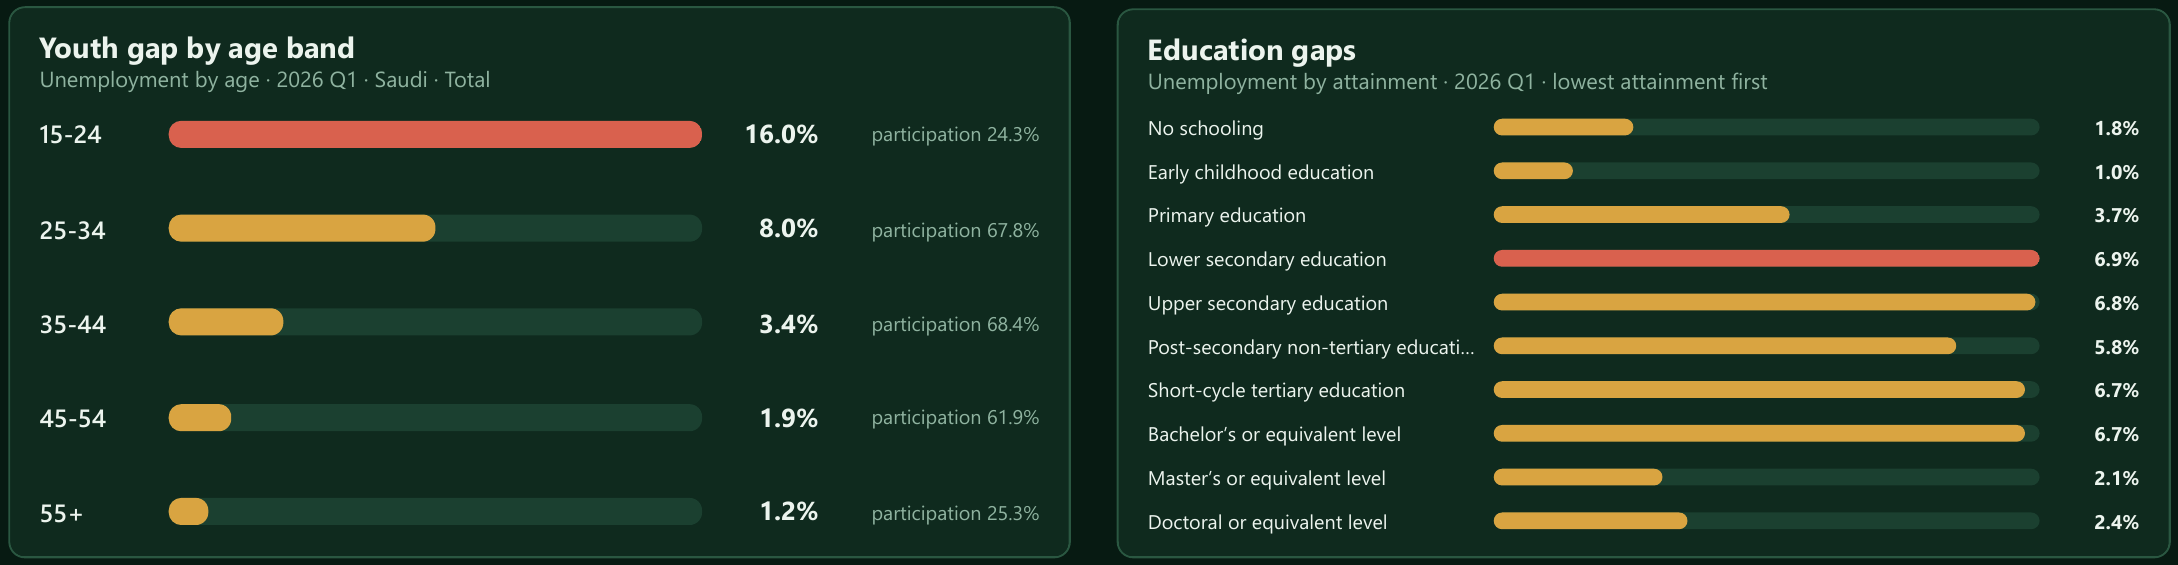
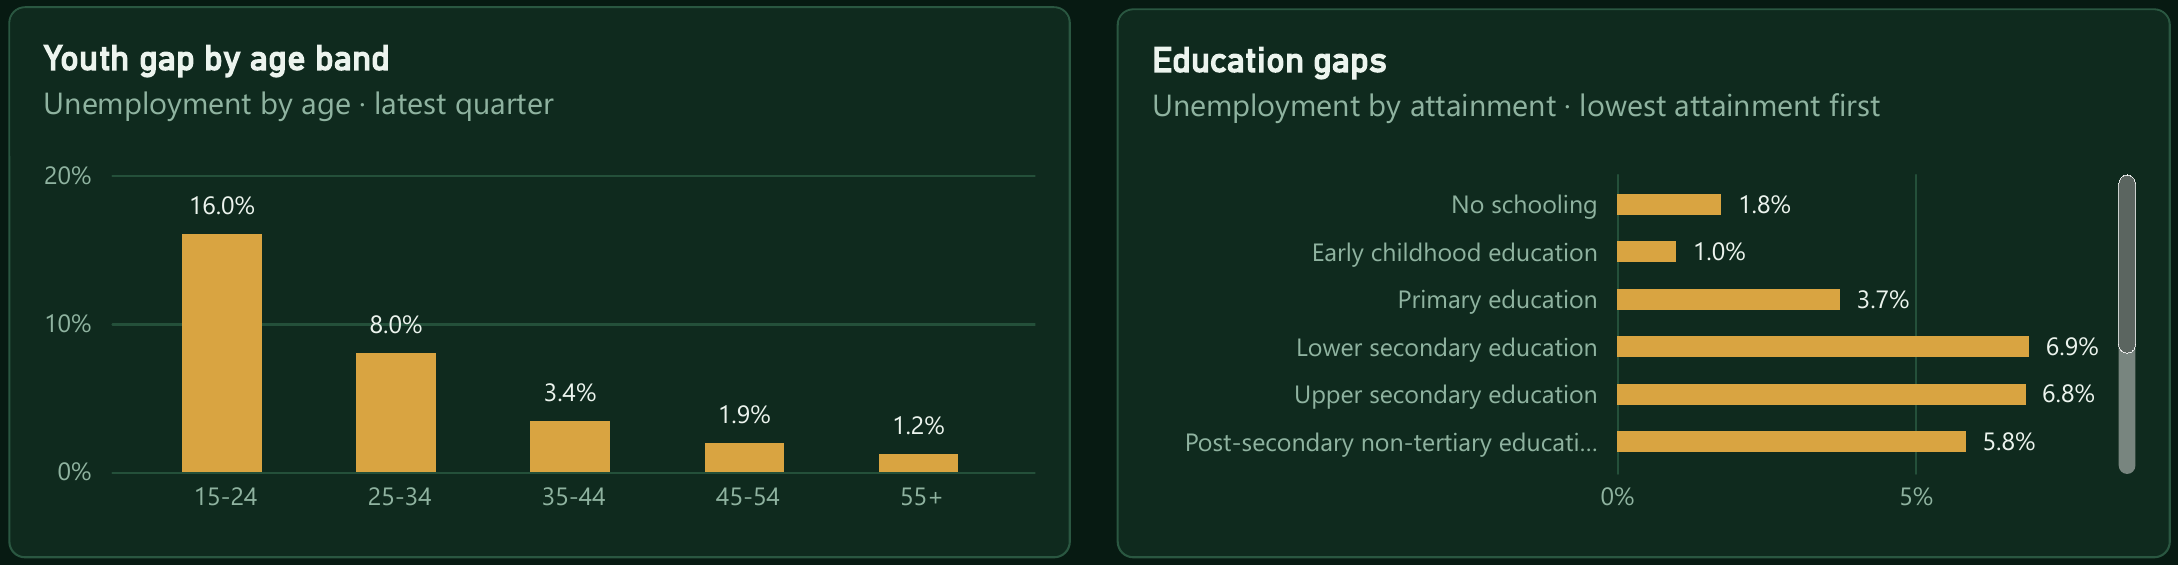
Use native SLM visuals and document HTML Content

diff --git a/projects/saudi-labor-market.html b/projects/saudi-labor-market.html
@@ -34,13 +34,13 @@
           </div>
           <ul class="project-facts">
             <li><span>Platform</span><strong>Power BI · DAX · Power Query</strong></li>
+            <li><span>Visuals</span><strong>Native charts · HTML Content</strong></li>
             <li><span>Data</span><strong>Public GASTAT Labour Force Survey</strong></li>
-            <li><span>Coverage</span><strong>2021 Q1 to 2026 Q1</strong></li>
           </ul>
         </div>
         <figure class="hero-shot">
-          <div class="hero-shot-media"><img src="../assets/images/saudi-labor-market-full.png" alt="Saudi Labor Market dashboard with national KPIs, a quarterly trend, regional gaps, age bands, and education levels" width="2667" height="1500"></div>
-          <figcaption class="hero-shot-copy"><span>Dashboard overview</span><h2>One page from headline rate to population gaps</h2><p>The view moves from national KPIs and a 21-quarter trend to comparisons by region, age, and education. Nationality and sex filters apply consistently across every panel.</p></figcaption>
+          <div class="hero-shot-media"><img src="../assets/images/saudi-labor-market-full.png" alt="Saudi Labor Market dashboard with HTML Content KPI cards and native Power BI trend, regional, age, and education charts" width="2667" height="1500"></div>
+          <figcaption class="hero-shot-copy"><span>Dashboard overview</span><h2>One page from headline rate to population gaps</h2><p>Native Power BI charts move from a 21-quarter national trend to comparisons by region, age, and education. HTML Content is used for the KPI cards and branded sidebar.</p></figcaption>
         </figure>
       </div>
     </section>
@@ -61,12 +61,12 @@
         <p class="case-label">Approach</p>
         <div class="case-copy">
           <h2>A consistent model across four analytical views</h2>
-          <p>I prepared the published GASTAT tables in Power Query and modeled the data at quarter, breakdown, category, nationality, and sex level. DAX measures control the latest-quarter values, prior-quarter comparison, and responsive national, regional, age, and education views.</p>
+          <p>I prepared the published GASTAT tables in Power Query and modeled the data at quarter, breakdown, category, nationality, and sex level. DAX measures control the latest-quarter values, prior-quarter comparison, and responsive national, regional, age, and education views. I used the HTML Content custom visual by Daniel Marsh-Patrick for the KPI cards and branded sidebar, while the four analytical panels use native Power BI visuals.</p>
           <ul>
-            <li>Executive KPIs show unemployment, quarterly movement, participation, employment, and youth unemployment.</li>
-            <li>The national series gives 21 quarters of context instead of treating the latest value in isolation.</li>
-            <li>Regional values are displayed against the national benchmark.</li>
-            <li>Age and education panels expose demographic differences while retaining the same selected nationality and sex.</li>
+            <li>HTML Content KPI cards show unemployment, quarterly movement, participation, employment, and youth unemployment.</li>
+            <li>A native line chart gives 21 quarters of context instead of treating the latest value in isolation.</li>
+            <li>A native regional bar chart ranks the latest results and supports chart interactions.</li>
+            <li>Native age and education charts expose demographic differences while retaining the selected nationality and sex.</li>
           </ul>
           <div class="insight-grid">
             <div class="insight"><strong>6.4%</strong><span>Saudi unemployment rate in 2026 Q1</span></div>
@@ -84,18 +84,18 @@
           <h2>Public source with transparent scope</h2>
           <p class="disclosure"><strong>Source:</strong> General Authority for Statistics, Saudi Arabia, Labour Market Statistics Q1 2026. The national series covers 2021 Q1 through 2026 Q1; detailed region, age, and education views show the latest quarter.</p>
           <p>The dashboard reports published survey rates. Because the public tables do not include microdata, weights, or confidence intervals, the detailed comparisons are presented descriptively rather than as tests of statistical significance.</p>
-          <p><a class="text-link" href="https://www.stats.gov.sa/en/w/labor-market-statistics-q1-2026-1" target="_blank" rel="noreferrer">View the official publication <span aria-hidden="true">→</span></a></p>
+          <p><a class="text-link" href="https://www.stats.gov.sa/en/search?category=all&amp;delta=20&amp;q=Labor+Market&amp;sort=" target="_blank" rel="noreferrer">Find the Q1 2026 source files on GASTAT <span aria-hidden="true">→</span></a></p>
         </div>
       </div>
     </section>
 
     <section class="gallery-section">
       <div class="container">
-        <div class="gallery-heading"><p class="eyebrow">Dashboard details</p><h2>From national direction to demographic gaps</h2><p>Focused views show how each part of the dashboard supports a different decision. Select any image to inspect it at full size.</p></div>
+        <div class="gallery-heading"><p class="eyebrow">Native dashboard views</p><h2>From national direction to demographic gaps</h2><p>Native Power BI charts support cross-filtering, tooltips, drill, and export. Select any image to inspect it at full size.</p></div>
         <div class="gallery-grid">
-          <figure class="gallery-item gallery-item-wide"><button class="image-button" type="button" data-expand-image data-caption="National unemployment trend from 2021 Q1 to 2026 Q1"><img src="../assets/images/saudi-labor-market-trend.png" alt="National unemployment trend declining to 6.4 percent in 2026 Q1" width="1078" height="565" loading="lazy"></button><figcaption><strong>National trend</strong><p>Twenty-one quarters put the latest result in context.</p></figcaption></figure>
-          <figure class="gallery-item"><button class="image-button" type="button" data-expand-image data-caption="Regional unemployment gaps relative to the national rate"><img src="../assets/images/saudi-labor-market-regional-gaps.png" alt="Regional unemployment rates ranging from 3.9 percent in Riyadh to 9.9 percent in Northern Border" width="1070" height="565" loading="lazy"></button><figcaption><strong>Regional gaps</strong><p>A common benchmark makes geographic differences immediately visible.</p></figcaption></figure>
-          <figure class="gallery-item"><button class="image-button" type="button" data-expand-image data-caption="Unemployment by age band and education level"><img src="../assets/images/saudi-labor-market-demographics.png" alt="Youth and education unemployment comparisons for Saudi nationals in 2026 Q1" width="2178" height="565" loading="lazy"></button><figcaption><strong>Demographic analysis</strong><p>Age and attainment views reveal where headline outcomes diverge.</p></figcaption></figure>
+          <figure class="gallery-item gallery-item-wide"><button class="image-button" type="button" data-expand-image data-caption="Native Power BI national unemployment trend from 2021 Q1 to 2026 Q1"><img src="../assets/images/saudi-labor-market-trend.png" alt="Native Power BI line chart showing the national unemployment trend declining to 6.4 percent in 2026 Q1" width="1078" height="565" loading="lazy"></button><figcaption><strong>National trend</strong><p>Twenty-one quarters put the latest result in context.</p></figcaption></figure>
+          <figure class="gallery-item"><button class="image-button" type="button" data-expand-image data-caption="Native Power BI regional unemployment ranking"><img src="../assets/images/saudi-labor-market-regional-gaps.png" alt="Native Power BI bar chart ranking regional unemployment rates" width="1070" height="565" loading="lazy"></button><figcaption><strong>Regional gaps</strong><p>The ranked view makes geographic differences immediately visible.</p></figcaption></figure>
+          <figure class="gallery-item"><button class="image-button" type="button" data-expand-image data-caption="Native Power BI age and education unemployment charts"><img src="../assets/images/saudi-labor-market-demographics.png" alt="Native Power BI column and bar charts comparing unemployment by age and education in 2026 Q1" width="2178" height="565" loading="lazy"></button><figcaption><strong>Demographic analysis</strong><p>Age and attainment views reveal where headline outcomes diverge.</p></figcaption></figure>
         </div>
       </div>
     </section>

diff --git a/projects/revenue-leak-detector.html b/projects/revenue-leak-detector.html
@@ -15,11 +15,11 @@
   <a class="skip-link" href="#main">Skip to content</a>
   <header class="site-header"><div class="container nav-wrap"><a class="brand" href="../index.html" aria-label="Mohanned Al Alshaikh home"><span class="brand-mark" aria-hidden="true">MA</span><span>Mohanned Al Alshaikh</span></a><button class="nav-toggle" type="button" aria-expanded="false" aria-controls="site-nav" data-nav-toggle>Menu</button><nav class="site-nav" id="site-nav" aria-label="Primary navigation" data-nav><a href="../index.html#work">Projects</a><a href="../index.html#about">About</a><a href="../index.html#experience">Experience</a><a href="../index.html#contact">Contact</a><a class="nav-resume" href="../assets/resume/mohanned-alshaikh-cv.pdf" target="_blank" rel="noreferrer">Résumé</a></nav></div></header>
   <main id="main">
-    <section class="project-hero"><div class="container"><div class="project-hero-grid"><div><p class="eyebrow">Commercial analytics</p><h1>Revenue Leak Detector</h1><p class="project-summary">A single-page merchant risk monitor that turns lifecycle and performance signals into an executive summary, root-cause view, and prioritized watchlist.</p></div><ul class="project-facts"><li><span>Platform</span><strong>Power BI · DAX · Power Query</strong></li><li><span>Interface</span><strong>Native and custom HTML visuals</strong></li><li><span>Data</span><strong>Synthetic demonstration dataset</strong></li></ul></div><figure class="hero-shot"><div class="hero-shot-media"><img src="../assets/images/revenue-leak-detector-full.png" alt="Revenue Leak Detector dashboard with commercial exposure KPIs, risk breakdowns, and a merchant watchlist" width="2667" height="1500"></div><figcaption class="hero-shot-copy"><span>Dashboard overview</span><h2>Risk signals arranged for prioritization</h2><p>Executive cards establish the scale of exposure, breakdowns explain where it concentrates, and the merchant watchlist identifies the accounts to review first.</p></figcaption></figure></div></section>
+    <section class="project-hero"><div class="container"><div class="project-hero-grid"><div><p class="eyebrow">Commercial analytics</p><h1>Revenue Leak Detector</h1><p class="project-summary">A single-page merchant risk monitor that turns lifecycle and performance signals into an executive summary, root-cause view, and prioritized watchlist.</p></div><ul class="project-facts"><li><span>Platform</span><strong>Power BI · DAX · Power Query</strong></li><li><span>Visuals</span><strong>Native charts · HTML Content</strong></li><li><span>Data</span><strong>Synthetic demonstration dataset</strong></li></ul></div><figure class="hero-shot"><div class="hero-shot-media"><img src="../assets/images/revenue-leak-detector-full.png" alt="Revenue Leak Detector dashboard with commercial exposure KPIs, risk breakdowns, and a merchant watchlist" width="2667" height="1500"></div><figcaption class="hero-shot-copy"><span>Dashboard overview</span><h2>Risk signals arranged for prioritization</h2><p>Executive cards establish the scale of exposure, native charts explain where it concentrates, and an HTML Content watchlist identifies the accounts to review first.</p></figcaption></figure></div></section>
 
     <section class="case-section"><div class="container case-grid"><p class="case-label">Business question</p><div class="case-copy"><h2>Which merchants require attention, and what signal put them at risk?</h2><p>Revenue leakage can emerge at different points in the merchant lifecycle: stalled opportunities, activation delays, onboarding friction, declining GMV, or missed expansion. When those signals live in separate fields, commercial teams struggle to compare exposure and decide where to act first.</p><p>The dashboard centralizes the signals into one monitoring view, moving from portfolio-level indicators to the specific merchants driving the result.</p></div></div></section>
 
-    <section class="case-section"><div class="container case-grid"><p class="case-label">Approach</p><div class="case-copy"><h2>From detection rules to an action-oriented watchlist</h2><p>I defined rule-based flags for each leakage category, prepared the merchant table in Power Query, and used DAX to aggregate the selected population. Country, industry, and account-owner slicers support targeted investigation without leaving the page.</p><ul><li>Executive cards summarize estimated commercial exposure, leak rate, merchant population, active merchants, and deal value.</li><li>A leak-type breakdown explains which operational signal contributes most to the combined exposure measure.</li><li>The merchant watchlist pairs every high-priority account with its amount, category, and plain-language reason.</li><li>A reset control restores the intended default filter state after exploration.</li></ul><div class="insight-grid"><div class="insight"><strong>117</strong><span>merchant records flagged for leakage</span></div><div class="insight"><strong>27.9%</strong><span>illustrative leak rate</span></div><div class="insight"><strong>SAR 17.9M</strong><span>combined illustrative exposure</span></div></div></div></div></section>
+    <section class="case-section"><div class="container case-grid"><p class="case-label">Approach</p><div class="case-copy"><h2>From detection rules to an action-oriented watchlist</h2><p>I defined rule-based flags for each leakage category, prepared the merchant table in Power Query, and used DAX to aggregate the selected population. Country, industry, and account-owner slicers support targeted investigation without leaving the page. I used the HTML Content custom visual by Daniel Marsh-Patrick for the KPI cards, branded sidebar, and merchant watchlist; the analytical breakdowns use native Power BI charts.</p><ul><li>Executive cards summarize estimated commercial exposure, leak rate, merchant population, active merchants, and deal value.</li><li>A leak-type breakdown explains which operational signal contributes most to the combined exposure measure.</li><li>The merchant watchlist pairs every high-priority account with its amount, category, and plain-language reason.</li><li>A reset control restores the intended default filter state after exploration.</li></ul><div class="insight-grid"><div class="insight"><strong>117</strong><span>merchant records flagged for leakage</span></div><div class="insight"><strong>27.9%</strong><span>illustrative leak rate</span></div><div class="insight"><strong>SAR 17.9M</strong><span>combined illustrative exposure</span></div></div></div></div></section>
 
     <section class="case-section"><div class="container case-grid"><p class="case-label">Metric design</p><div class="case-copy"><h2>A prioritization measure, not an accounting forecast</h2><p class="disclosure"><strong>Portfolio-data disclosure:</strong> This project uses synthetic merchant data created for demonstration. Names, values, performance patterns, and results do not represent a real company.</p><p>The dashboard’s combined exposure measure uses different scenario inputs: deal value for pipeline delays, annualized recent GMV decline for active merchants, and estimated expansion value for missed opportunities. It is best interpreted as an <strong>estimated commercial exposure used for prioritization</strong>, not as recognized revenue or a financial forecast.</p><p>This distinction is documented so decision-makers can use the ranking without overstating the precision of the total.</p></div></div></section>
 

diff --git a/index.html b/index.html
@@ -54,7 +54,7 @@
         </div>
         <div class="hero-visual" aria-label="Selected dashboard previews">
           <figure class="preview preview-primary">
-            <img src="assets/images/saudi-labor-market-full.png" alt="Saudi Labor Market dashboard showing national, regional, age, and education outcomes" width="2667" height="1500">
+            <img src="assets/images/saudi-labor-market-full.png" alt="Saudi Labor Market dashboard using native Power BI charts for national, regional, age, and education outcomes" width="2667" height="1500">
           </figure>
         </div>
       </div>
@@ -73,10 +73,10 @@
         <div class="project-grid">
           <article class="project-card project-card-featured">
             <a class="project-image" href="projects/saudi-labor-market.html">
-              <img src="assets/images/saudi-labor-market-full.png" alt="Saudi Labor Market Quarterly Outcomes Monitor dashboard" width="2667" height="1500" loading="lazy">
+              <img src="assets/images/saudi-labor-market-full.png" alt="Saudi Labor Market Quarterly Outcomes Monitor with native analytical charts" width="2667" height="1500" loading="lazy">
             </a>
             <div class="project-card-body">
-              <div class="project-meta"><span>Power BI</span><span>Public data</span><span>Labour analytics</span></div>
+              <div class="project-meta"><span>Power BI</span><span>Public data</span><span>Native charts</span><span>HTML Content</span></div>
               <h3><a href="projects/saudi-labor-market.html">Saudi Labor Market Quarterly Outcomes Monitor</a></h3>
               <p>Tracks unemployment, participation, and employment across time, regions, age bands, and education levels using official GASTAT Labour Force Survey data.</p>
               <a class="text-link" href="projects/saudi-labor-market.html">Read case study <span aria-hidden="true">→</span></a>
@@ -88,7 +88,7 @@
               <img src="assets/images/revenue-leak-detector-full.png" alt="Revenue Leak Detector merchant risk dashboard" width="2667" height="1500" loading="lazy">
             </a>
             <div class="project-card-body">
-              <div class="project-meta"><span>Power BI</span><span>Synthetic data</span><span>Commercial analytics</span></div>
+              <div class="project-meta"><span>Power BI</span><span>Synthetic data</span><span>HTML Content</span></div>
               <h3><a href="projects/revenue-leak-detector.html">Revenue Leak Detector</a></h3>
               <p>Brings multiple merchant-risk signals into one prioritization view so commercial teams can move from exposure totals to the accounts requiring attention.</p>
               <a class="text-link" href="projects/revenue-leak-detector.html">Read case study <span aria-hidden="true">→</span></a>
